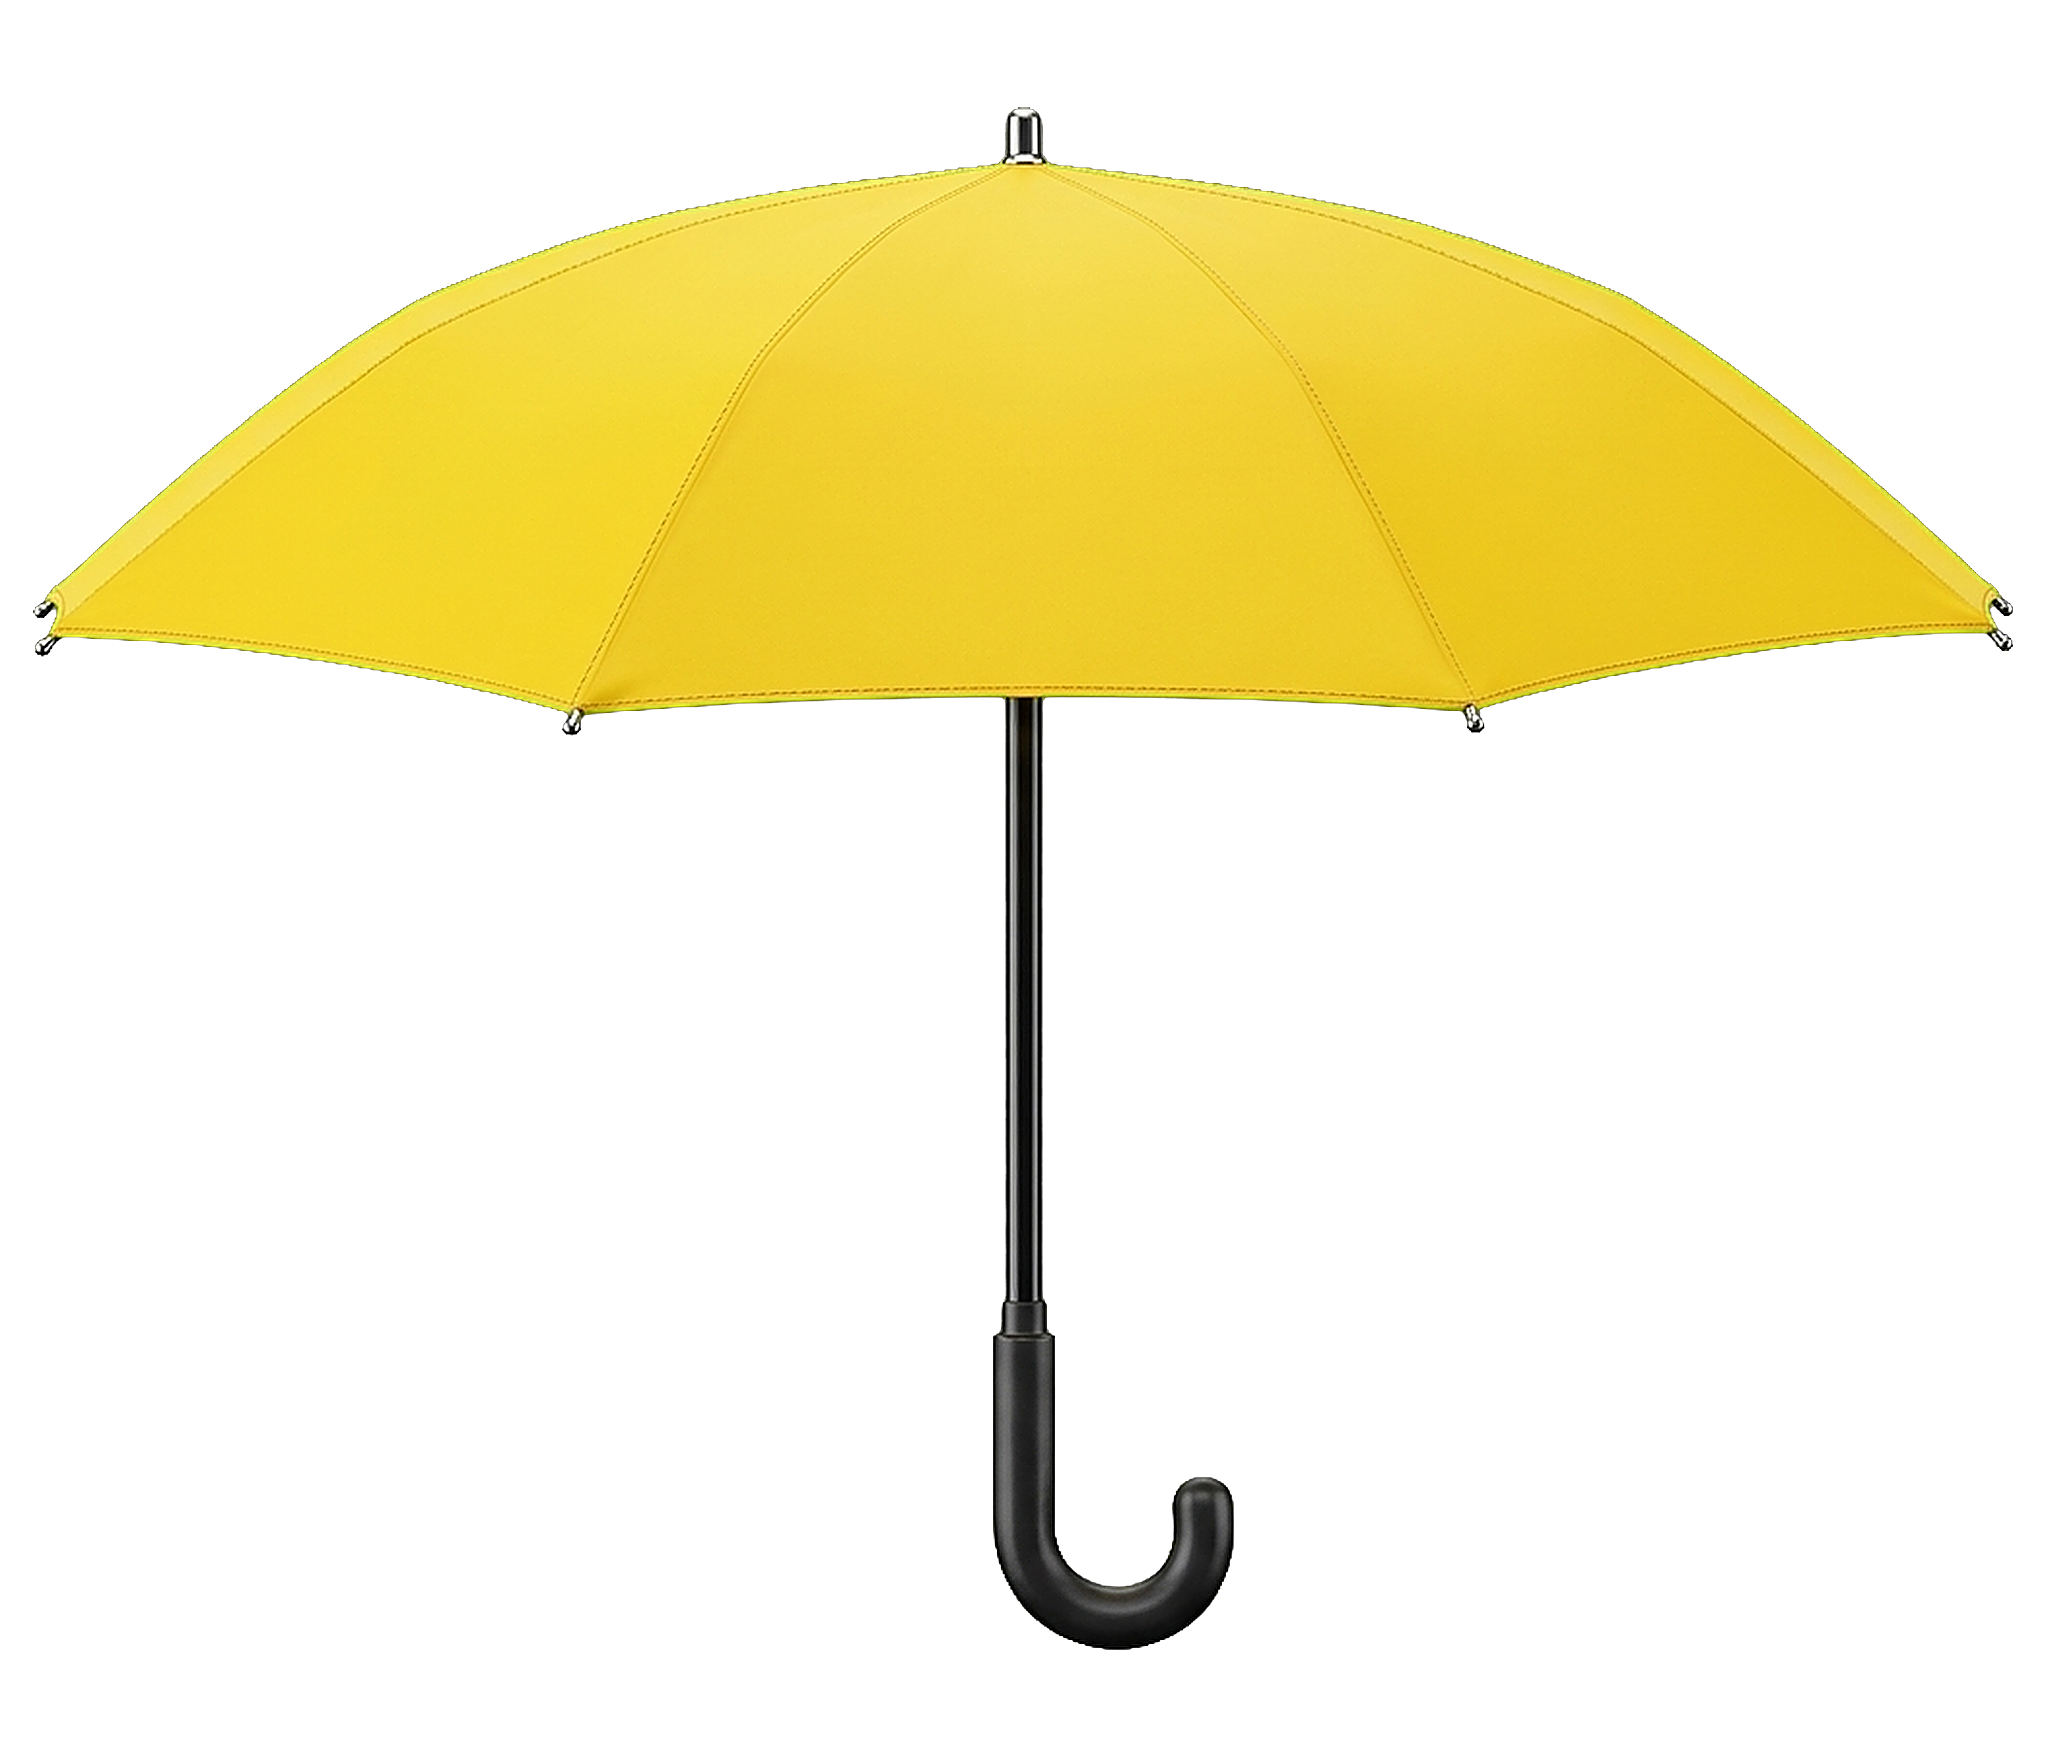
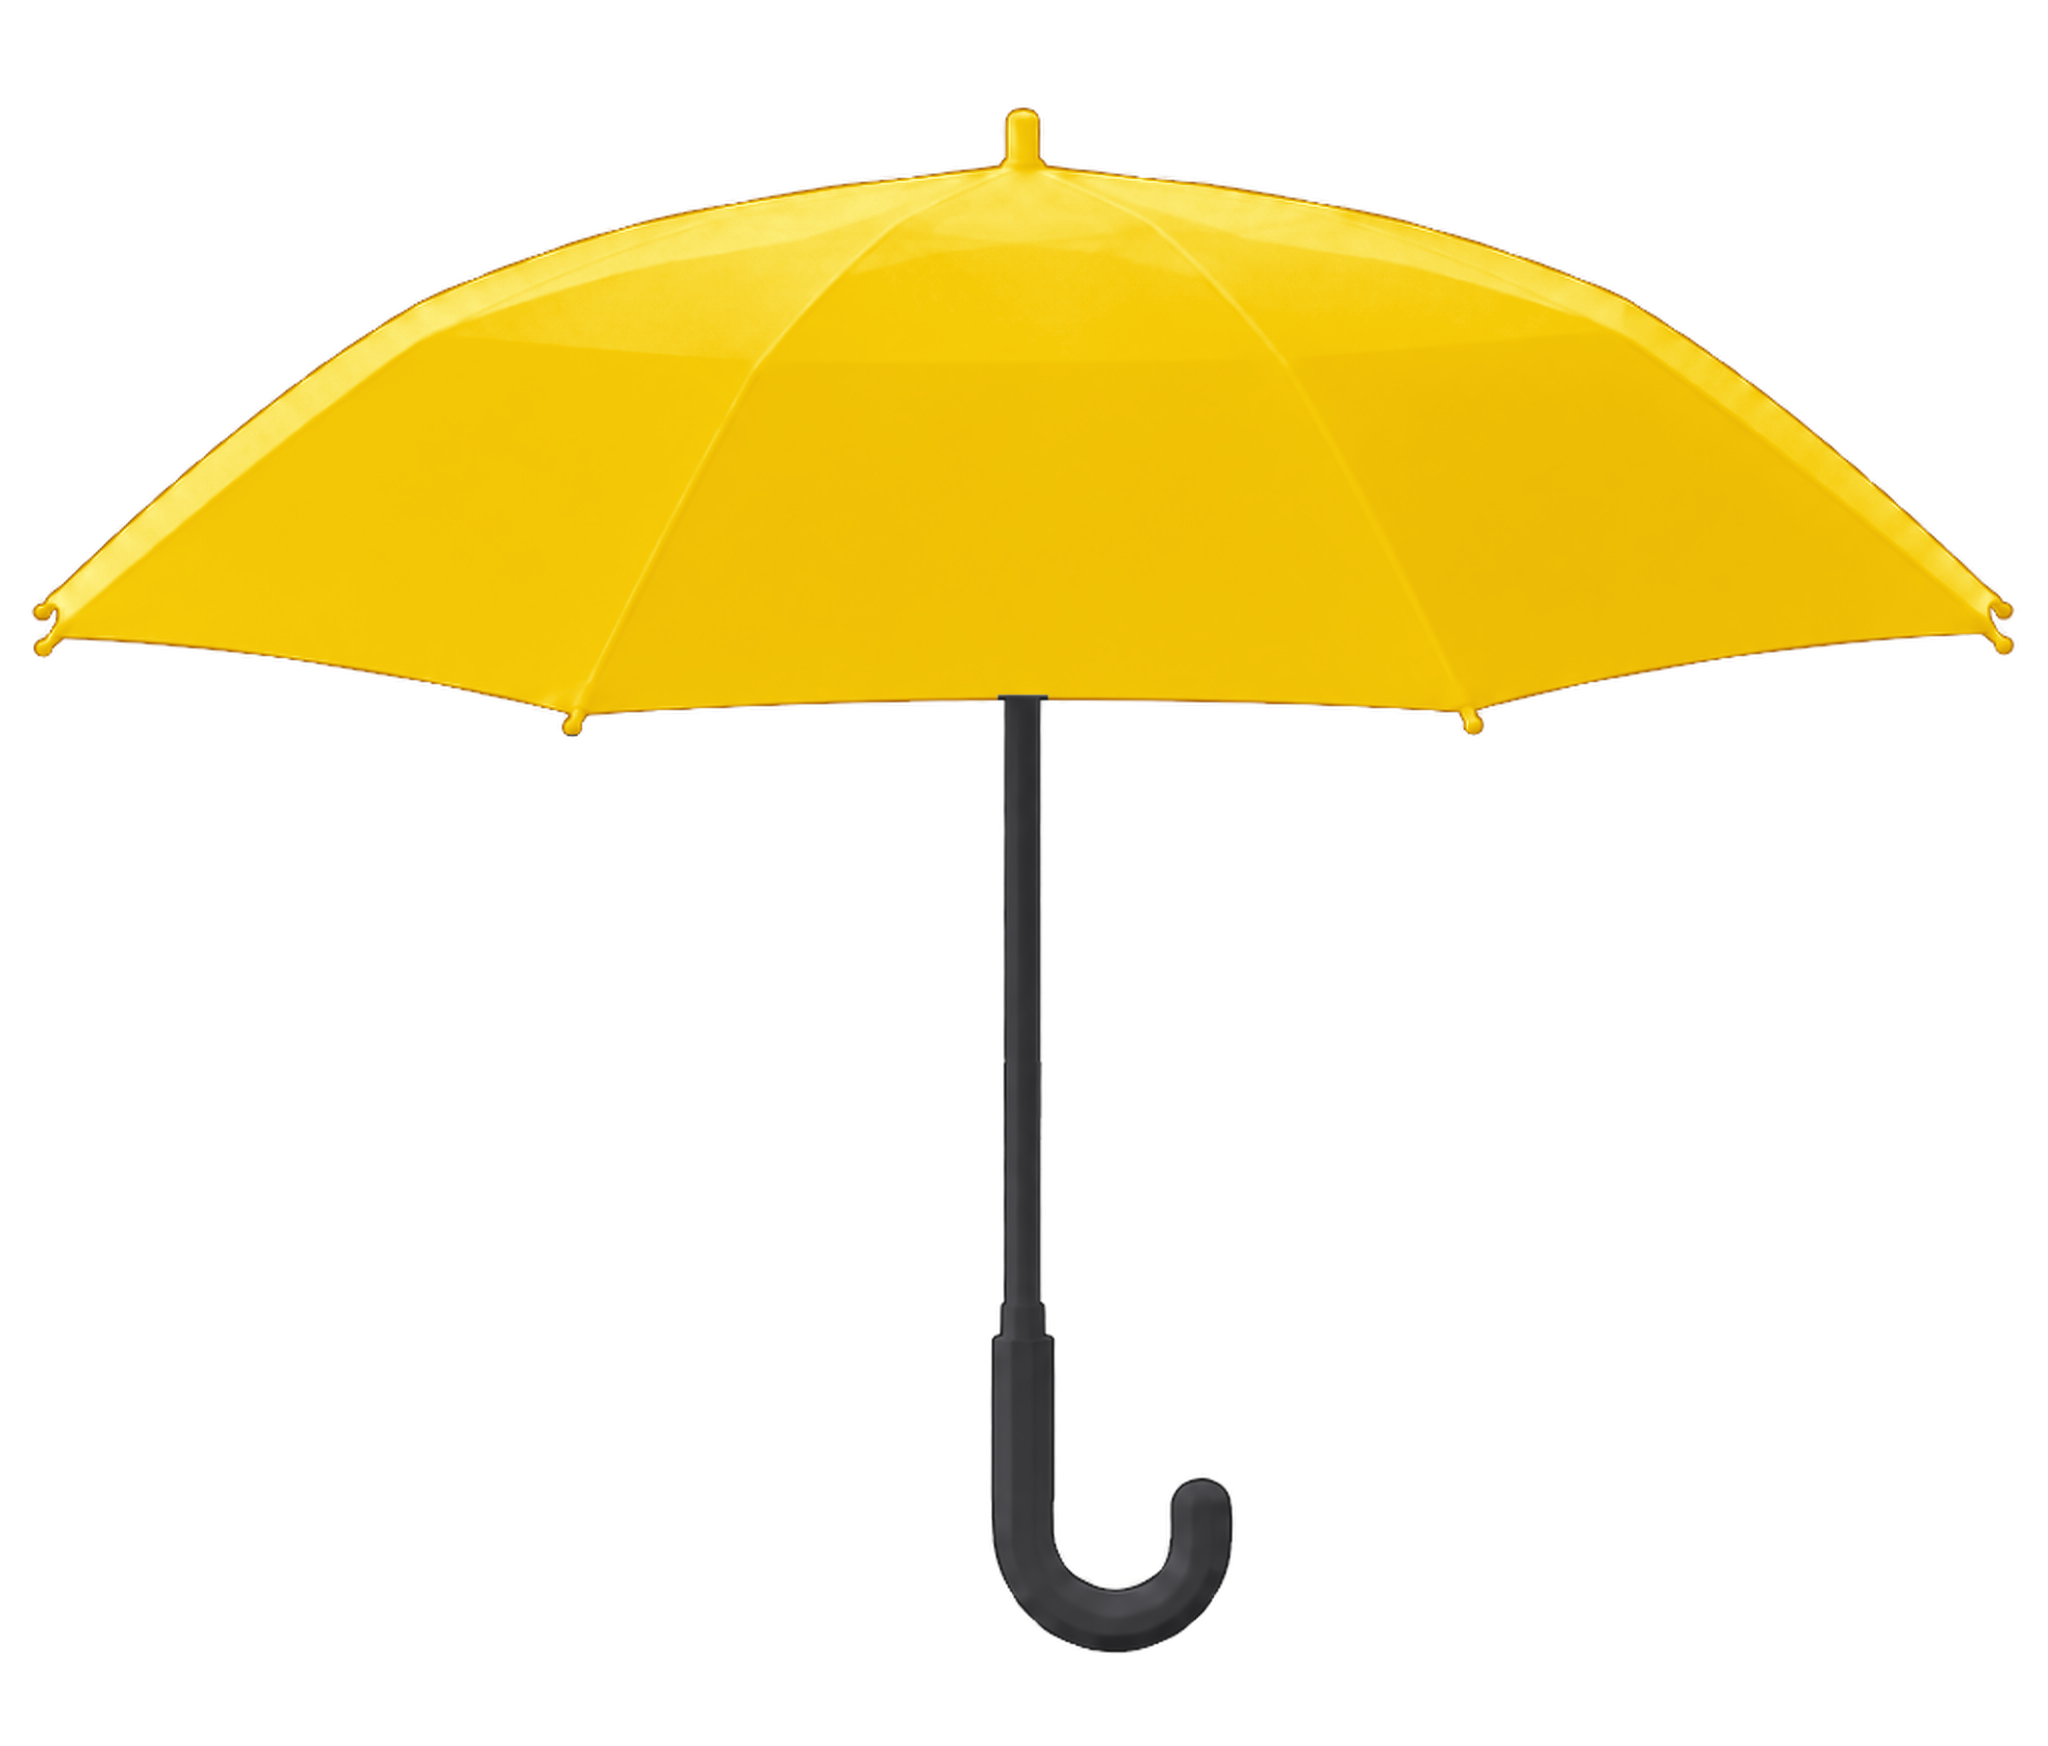
Restore previous hero umbrella asset and styling

Changed region(s): [[0.0, 0.0619, 1.0, 0.9588]]

diff --git a/index.html b/index.html
@@ -502,11 +502,9 @@
       aspect-ratio: 2048 / 1746;
       object-fit: contain !important;
       display: block !important;
-      image-rendering: auto !important;
-      image-rendering: -webkit-optimize-contrast !important;
-      filter: drop-shadow(0 24px 50px rgba(0, 0, 0, 0.90)) drop-shadow(0 12px 30px rgba(255, 195, 0, 0.14)) brightness(calc(1 + var(--umbrella-lightning, 0) * 0.45));
+      filter: drop-shadow(0 32px 80px rgba(0, 0, 0, 0.98)) drop-shadow(0 15px 45px rgba(255, 195, 0, 0.16)) brightness(calc(1 + var(--umbrella-lightning, 0) * 0.45));
       transition: filter 0.05s ease-out;
-      will-change: filter;
+      will-change: filter, transform;
       pointer-events: auto !important;
     }
 
@@ -4049,10 +4047,10 @@
               var u2 = u * u;
 
               // Wide open protective dome canopy surface
-              canopyY = ubRect.top + ubRect.height * (0.095 + 0.193 * u2 + 0.068 * u2 * u2) + 1.5;
+              canopyY = ubRect.top + ubRect.height * (0.098 + 0.178 * u2 + 0.084 * u2 * u2) + 1.5;
 
               if (Math.abs(u) < 0.032) {
-                canopyY = ubRect.top + ubRect.height * 0.061 + 1.5; // ferrule nub at center
+                canopyY = ubRect.top + ubRect.height * 0.063 + 1.5; // ferrule nub at center
               }
 
               // Raindrop touches the canopy directly on the cloth
